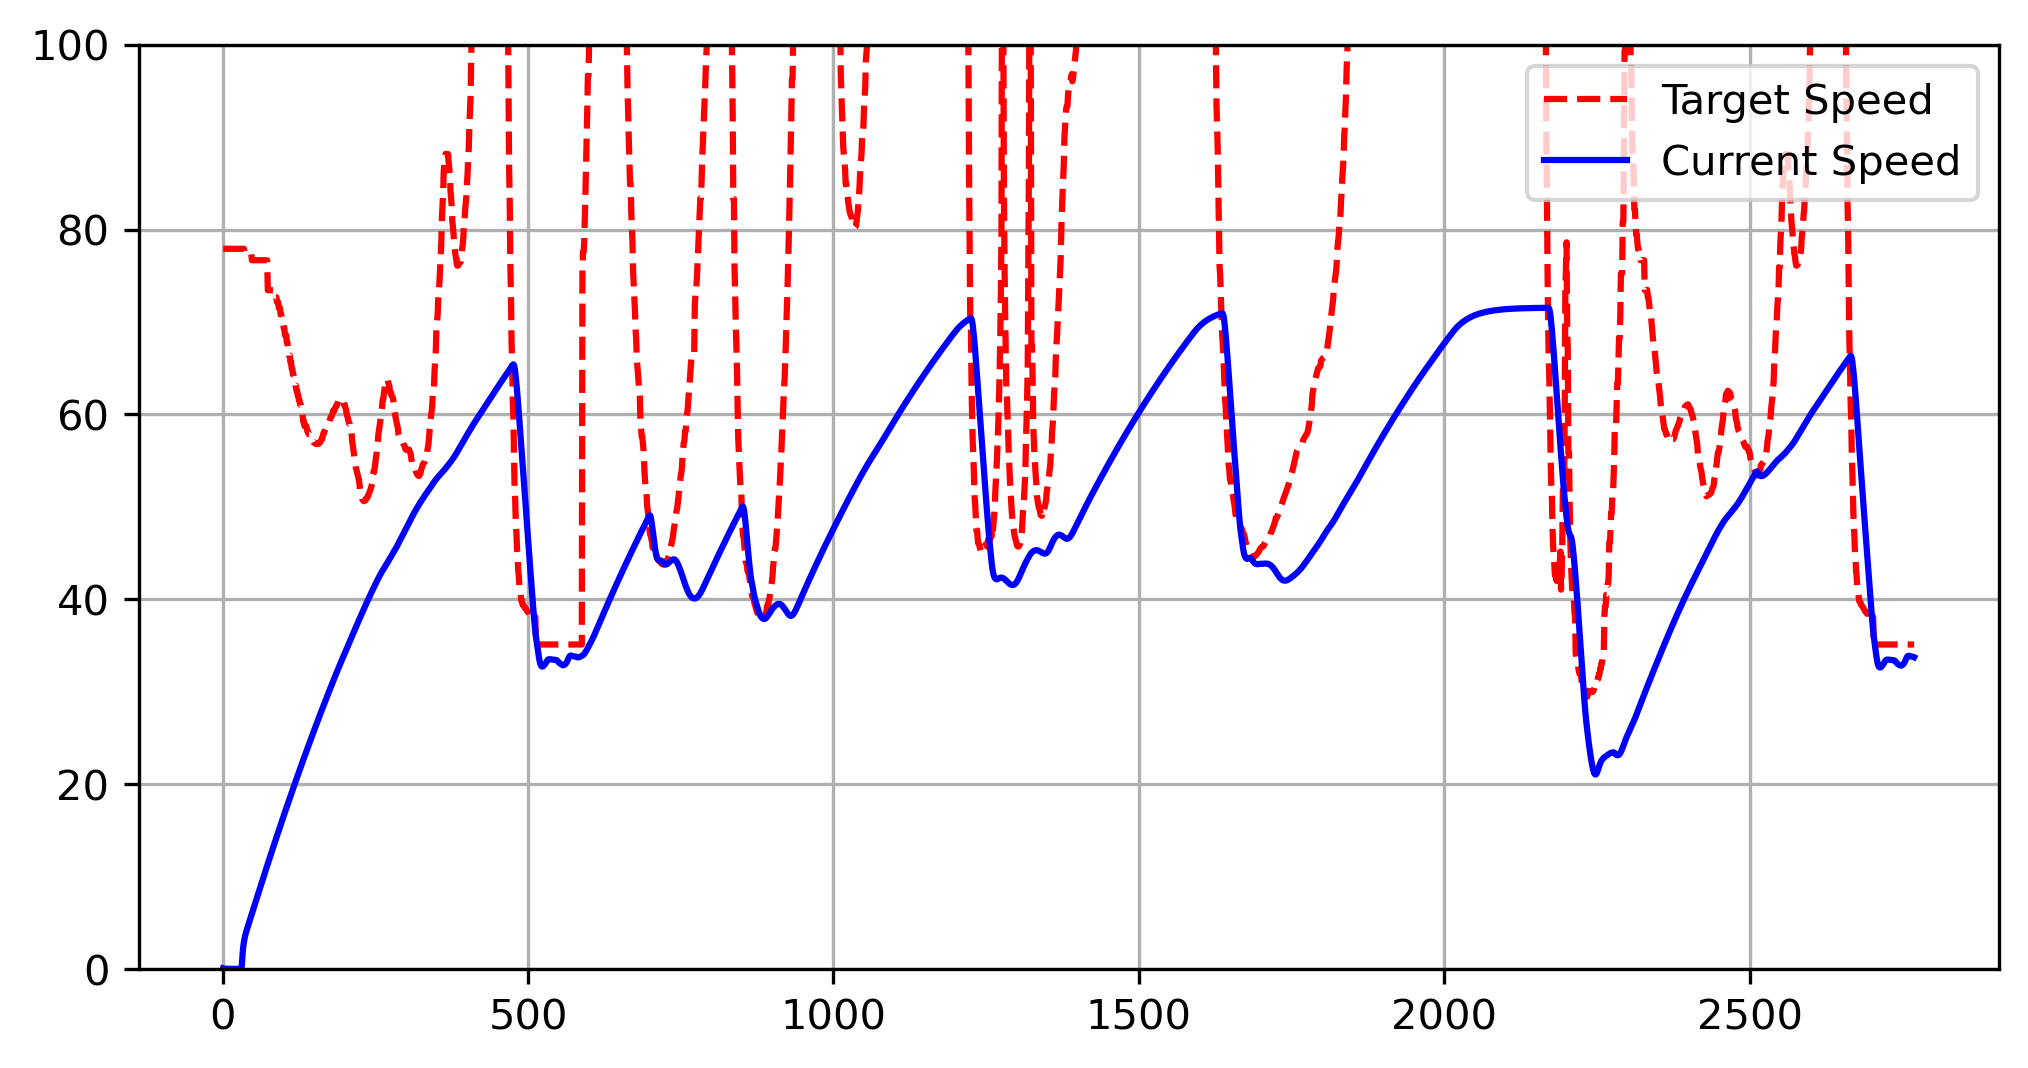
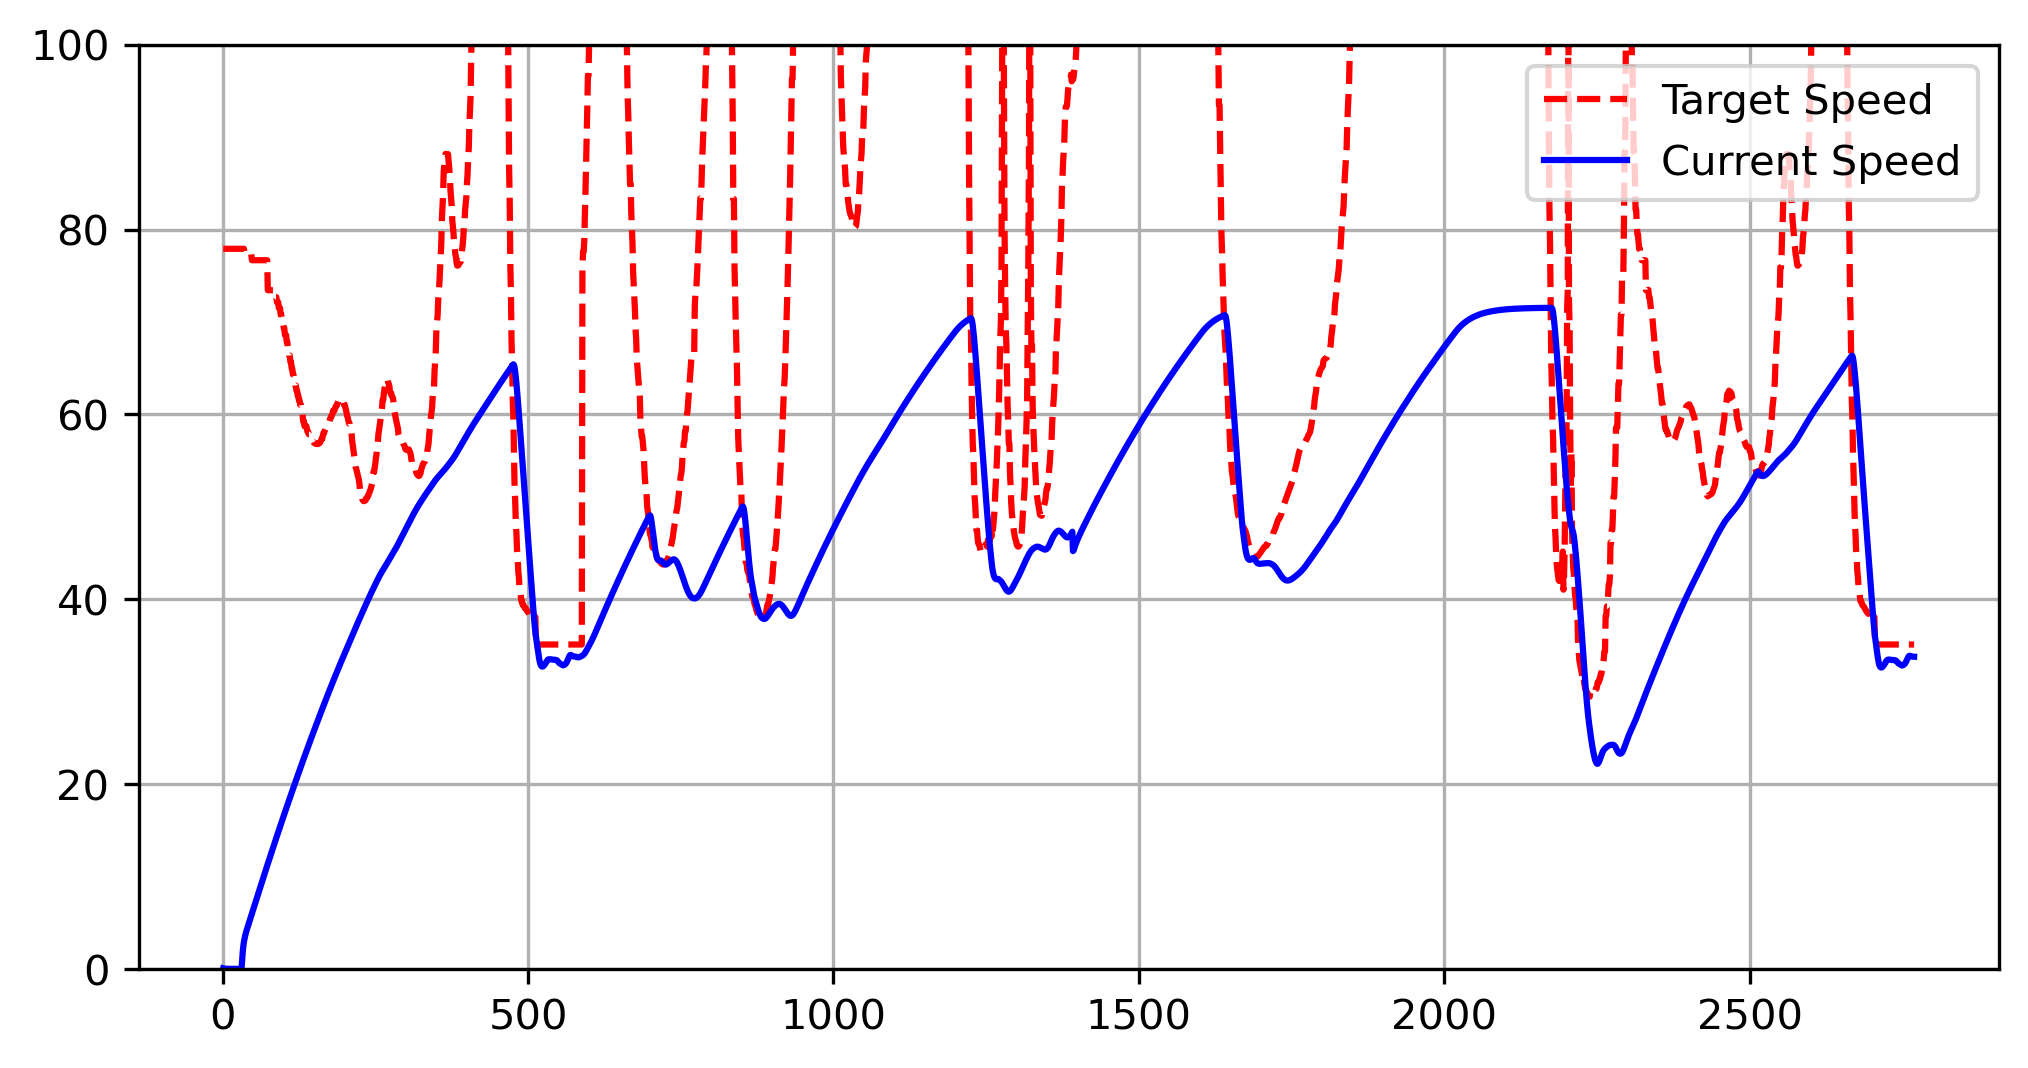
increase speed for 1400 area

diff --git a/competition_code/util/SteerController.py b/competition_code/util/SteerController.py
@@ -5,14 +5,16 @@ class SteerController:
 
     @staticmethod
     def get_target_heading(velocity, vehicle, loc):
-        steer_look_ahead = SteerController.look_ahead_dist(velocity)
+        steer_look_ahead = SteerController.look_ahead_dist(velocity, vehicle.current_waypoint_idx)
         target_waypoint = vehicle.maneuverable_waypoints[(vehicle.current_waypoint_idx + steer_look_ahead) % len(vehicle.maneuverable_waypoints)]
         vector_to_waypoint = (target_waypoint.location - loc)[:2]
         return MathUtil.normalize_rad(np.arctan2(vector_to_waypoint[1],vector_to_waypoint[0]))
 
     @staticmethod
-    def look_ahead_dist(velocity):
-        return np.clip(int(0.4 * velocity - 2), 6, 26)
+    def look_ahead_dist(velocity, waypoint):
+        lookahead = np.clip(int(0.4 * velocity - 2), 6, 26)
+        if (1300 <= waypoint <= 1325 or 1400 <= waypoint <= 1425): return lookahead + 7
+        return lookahead
 
 
 
